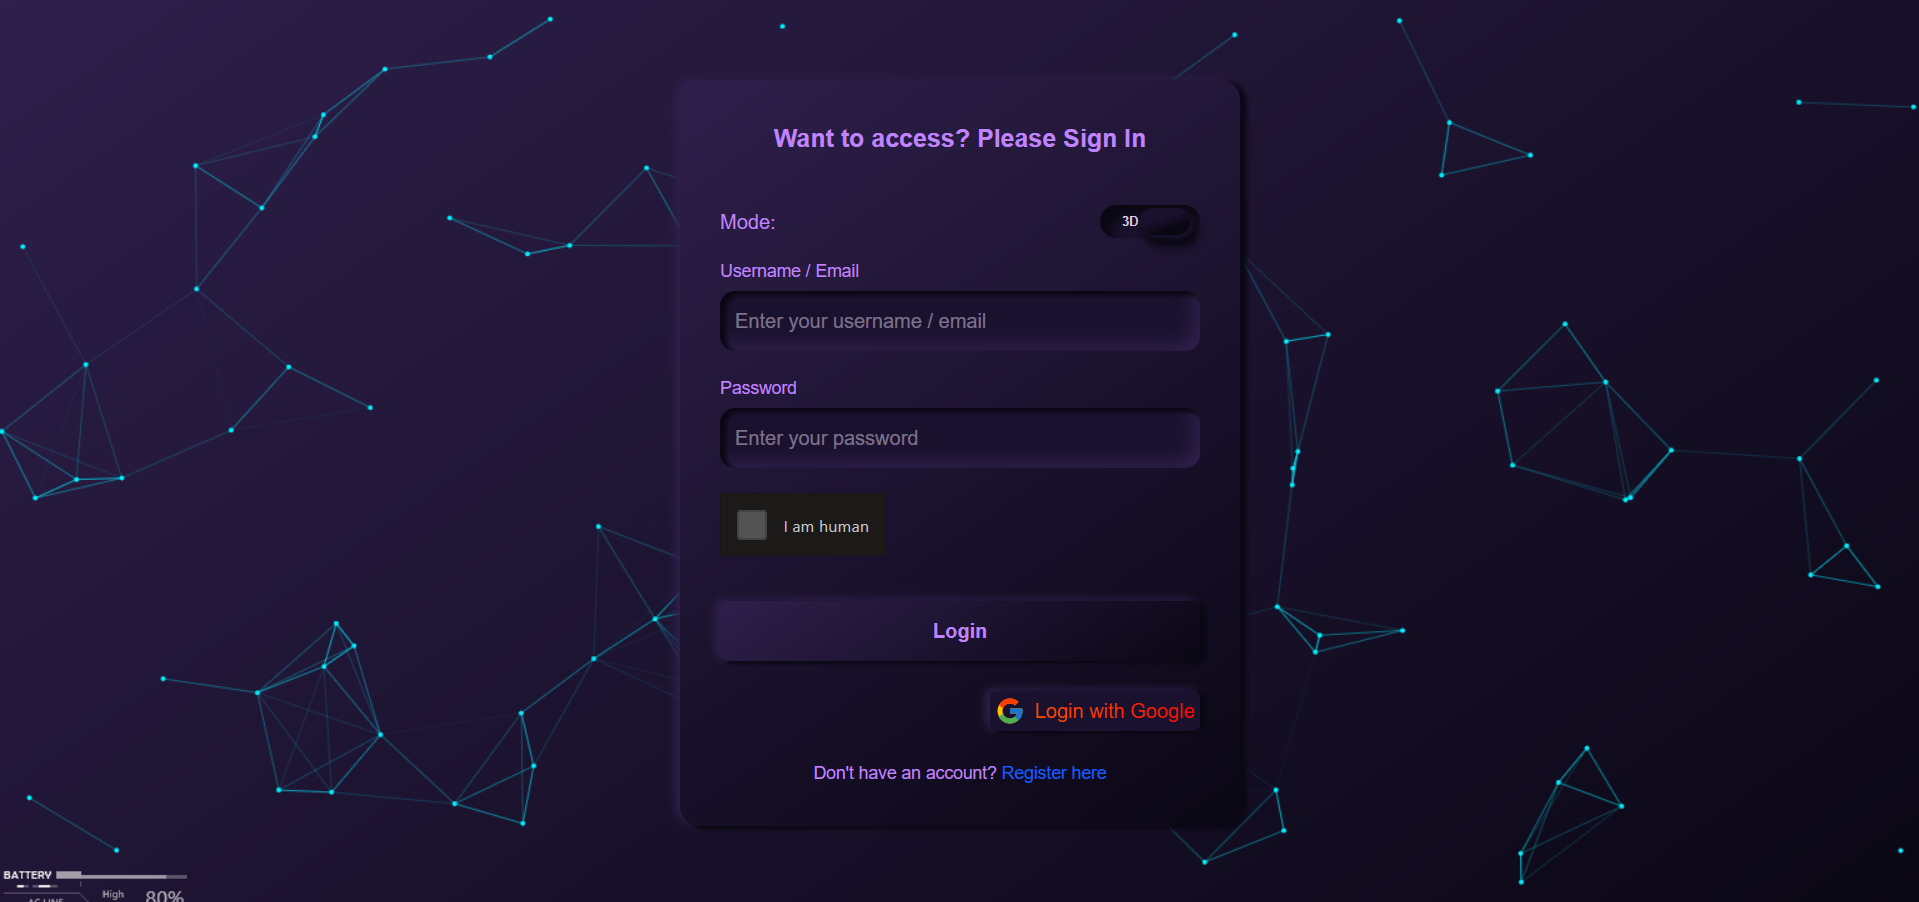
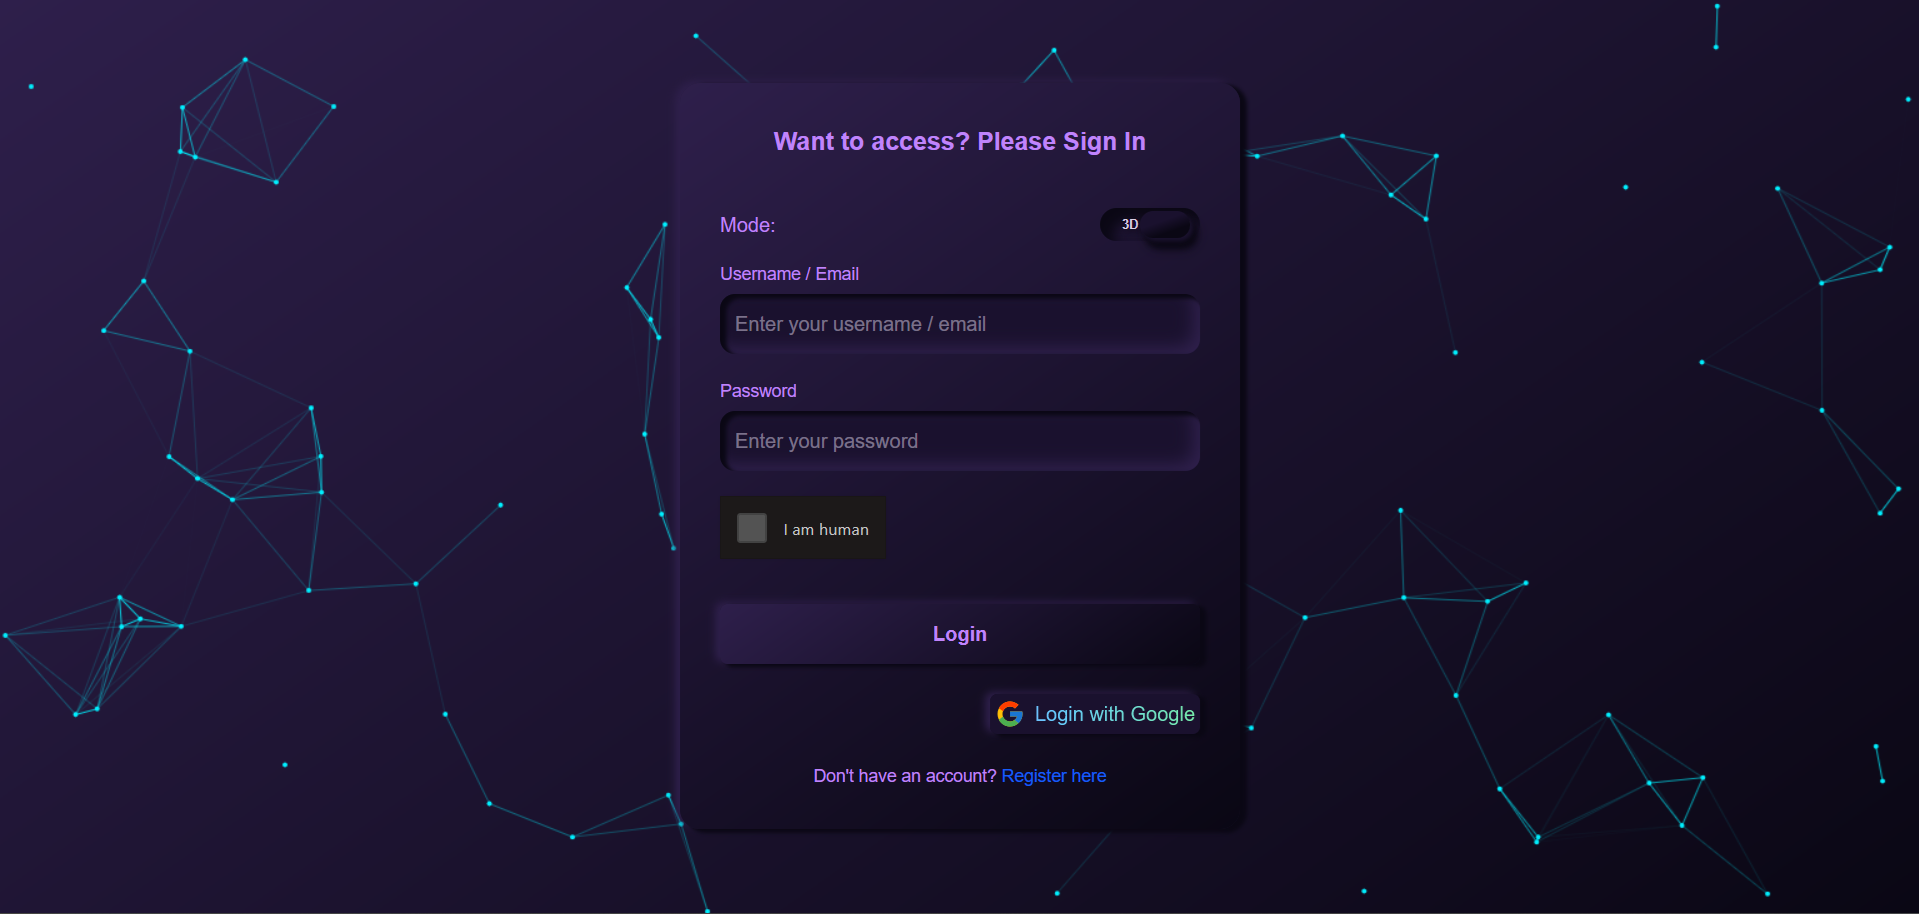
Modify OAuthGoogle component with new rainbow text animation & color gradient & Update thumb

diff --git a/frontend/src/components/Auth/OAuthGoogle.tsx b/frontend/src/components/Auth/OAuthGoogle.tsx
@@ -19,16 +19,27 @@ export default function OAuthGoogle() {
     <>
       <style>
         {`
-        @keyframes rainbow {
-            0%, 100% { background-position: 0% 50%; }
-            50% { background-position: 100% 50%; }
-        }
         .animated-rainbow-text {
-            background: linear-gradient(270deg, #ff0000, #ffa500, #ffff00, #008000, #0000ff, #4b0082, #ee82ee);
-            background-size: 1400% 1400%;
-            -webkit-background-clip: text;
-            -webkit-text-fill-color: transparent;
-            animation: rainbow 8s ease infinite;
+          background: linear-gradient(
+            270deg,
+            #ff4d4d,  /* soft red */
+            #ff944d,  /* orange-ish */
+            #ffff4d,  /* lemon yellow */
+            #80ff80,  /* light green */
+            #66ccff,  /* sky blue */
+            #b366ff,  /* lavender */
+            #ff4dff   /* pink-violet */
+          );
+          background-size: 800% 800%;
+          -webkit-background-clip: text;
+          -webkit-text-fill-color: transparent;
+          animation: rainbow 10s ease infinite;
+        }
+
+        @keyframes rainbow {
+          0% { background-position: 0% 50%; }
+          50% { background-position: 100% 50%; }
+          100% { background-position: 0% 50%; }
         }
         `}
       </style>
